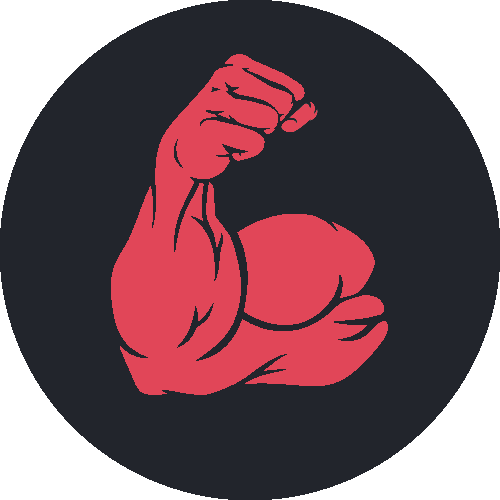
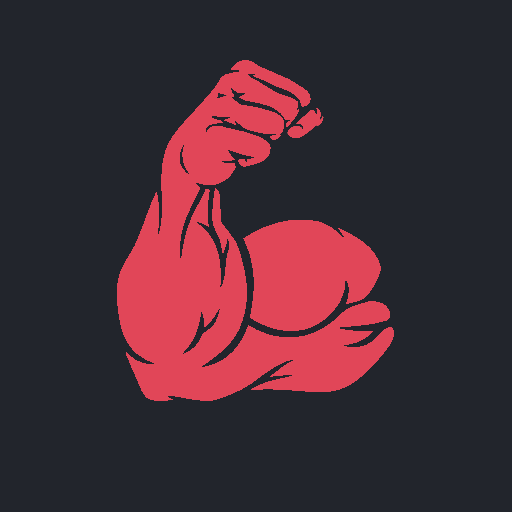
added maskable image

diff --git a/src/components/AppBarLayout/AppBarLayout.tsx b/src/components/AppBarLayout/AppBarLayout.tsx
@@ -1,16 +1,22 @@
+import React, { useEffect } from 'react';
+
 import { NavLink } from 'react-router-dom';
-import React from 'react';
 import classNames from 'classnames';
 import styles from './AppBarLayout.module.scss';
 
 type Props = {
     header?: React.ReactNode;
+    pageTitle: string;
 };
 
 export default function AppBarLayout({
     children,
     header,
+    pageTitle,
 }: React.PropsWithChildren<Props>) {
+    useEffect(() => {
+        document.title = `${pageTitle} | ISOMETRIC`;
+    }, [pageTitle]);
     return (
         <div className={styles.root}>
             {header}
@@ -28,8 +34,8 @@ export default function AppBarLayout({
                         iconClass='fa-dumbbell'
                     />
                     <AppBarButton
-                        href='/workouts'
-                        text='Workouts'
+                        href='/history'
+                        text='History'
                         iconClass='fa-list-check'
                     />
                 </div>

diff --git a/src/pages/exercises/index.tsx b/src/pages/exercises/index.tsx
@@ -1,17 +1,12 @@
-import { useEffect, useMemo } from 'react';
-
 import AppBarWithAppHeaderLayout from '../../components/AppBarWithAppHeaderLayout/AppBarWithAppHeaderLayout';
 import { IExercise } from '@dgoudie/isometric-types';
 import { Link } from 'react-router-dom';
 import MuscleGroupTag from '../../components/MuscleGroupTag/MuscleGroupTag';
 import styles from './index.module.scss';
 import { useFetchFromApi } from '../../utils/fetch-from-api';
+import { useMemo } from 'react';
 
 const Exercises = () => {
-    useEffect(() => {
-        document.title = `Exercises | ISOMETRIC`;
-    }, []);
-
     const [response] = useFetchFromApi<IExercise[]>(
         `/api/exercises`,
         null,
@@ -28,7 +23,7 @@ const Exercises = () => {
     );
 
     return (
-        <AppBarWithAppHeaderLayout>
+        <AppBarWithAppHeaderLayout pageTitle='Exercises'>
             <div className={styles.root}>
                 <div className={styles.items}>{items}</div>
             </div>

diff --git a/src/pages/history/index.tsx b/src/pages/history/index.tsx
@@ -1,15 +1,11 @@
-import React, { useEffect } from 'react';
-
 import AppBarWithAppHeaderLayout from '../../components/AppBarWithAppHeaderLayout/AppBarWithAppHeaderLayout';
+import React from 'react';
 
 type Props = {};
 
-const Workouts: React.FC<Props> = () => {
-    useEffect(() => {
-        document.title = `Workouts | ISOMETRIC`;
-    }, []);
+const History: React.FC<Props> = () => {
     return (
-        <AppBarWithAppHeaderLayout>
+        <AppBarWithAppHeaderLayout pageTitle='History'>
             Lorem ipsum dolor sit amet, consectetur adipiscing elit, sed do
             eiusmod tempor incididunt ut labore et dolore magna aliqua.
             Scelerisque viverra mauris in aliquam sem. Odio euismod lacinia at
@@ -71,4 +67,4 @@ const Workouts: React.FC<Props> = () => {
     );
 };
 
-export default Workouts;
+export default History;

diff --git a/src/App.tsx b/src/App.tsx
@@ -5,16 +5,16 @@ import React, { FC } from 'react';
 
 import Exercise from './pages/exercise';
 import Exercises from './pages/exercises';
+import History from './pages/history';
 import Home from './pages/home';
 import Settings from './pages/settings';
-import Workouts from './pages/workouts';
 
 const App: FC = () => (
     <Routes>
         <Route path='home' element={<Home />} />
         <Route path='exercises' element={<Exercises />} />
         <Route path='exercises/:exerciseName' element={<Exercise />} />
-        <Route path='workouts' element={<Workouts />} />
+        <Route path='history' element={<History />} />
         <Route path='settings' element={<Settings />} />
         <Route path='*' element={<Navigate replace to='/home' />} />
     </Routes>

diff --git a/src/components/MuscleGroupTag/MuscleGroupTag.tsx b/src/components/MuscleGroupTag/MuscleGroupTag.tsx
@@ -9,7 +9,16 @@ import styles from './MuscleGroupTag.module.scss';
 import { useMemo } from 'react';
 
 const colorScale = chroma
-    .scale(['#e14658', 'skyblue', 'orange'])
+    .scale([
+        '#DE3163',
+        '#FF7F50',
+        '#FFBF00',
+        '#DFFF00',
+        '#9FE2BF',
+        '#40E0D0',
+        '#6495ED',
+        '#CCCCFF',
+    ])
     .mode('lch')
     .colors(ExerciseMuscleGroups.length);
 
@@ -24,7 +33,7 @@ export default function MuscleGroupTag({ muscleGroup, className }: Props) {
         [muscleGroup]
     );
     let color = 'black';
-    if (contrast(backgroundColor, color) < 9) {
+    if (contrast(backgroundColor, color) < 7) {
         color = 'white';
     }
     return (

diff --git a/src/components/AppBarWithAppHeaderLayout/AppBarWithAppHeaderLayout.tsx b/src/components/AppBarWithAppHeaderLayout/AppBarWithAppHeaderLayout.tsx
@@ -2,13 +2,17 @@ import AppBarLayout from '../AppBarLayout/AppBarLayout';
 import { NavLink } from 'react-router-dom';
 import styles from './AppBarWithAppHeaderLayout.module.scss';
 
-type Props = {};
+type Props = {
+    pageTitle: string;
+};
 
 export default function AppBarWithAppHeaderLayout({
     children,
+    pageTitle,
 }: React.PropsWithChildren<Props>) {
     return (
         <AppBarLayout
+            pageTitle={pageTitle}
             header={
                 <header className={styles.topBar}>
                     <div className={styles.topBarTitle}>ISOMETRIC</div>

diff --git a/src/pages/settings/index.tsx b/src/pages/settings/index.tsx
@@ -1,11 +1,11 @@
-import React, { useEffect } from 'react';
-
 import AppBarWithAppHeaderLayout from '../../components/AppBarWithAppHeaderLayout/AppBarWithAppHeaderLayout';
+import React from 'react';
 
 const Settings: React.FC = () => {
-    useEffect(() => {
-        document.title = `Settings | ISOMETRIC`;
-    }, []);
-    return <AppBarWithAppHeaderLayout>Some Settings</AppBarWithAppHeaderLayout>;
+    return (
+        <AppBarWithAppHeaderLayout pageTitle='Settings'>
+            Some Settings
+        </AppBarWithAppHeaderLayout>
+    );
 };
 export default Settings;

diff --git a/src/pages/home/index.tsx b/src/pages/home/index.tsx
@@ -1,14 +1,14 @@
-import React, { useEffect } from 'react';
-
 import AppBarWithAppHeaderLayout from '../../components/AppBarWithAppHeaderLayout/AppBarWithAppHeaderLayout';
+import React from 'react';
 
 type Props = {};
 
 const Home: React.FC<Props> = () => {
-    useEffect(() => {
-        document.title = `Home | ISOMETRIC`;
-    }, []);
-    return <AppBarWithAppHeaderLayout>hello</AppBarWithAppHeaderLayout>;
+    return (
+        <AppBarWithAppHeaderLayout pageTitle='Home'>
+            hello
+        </AppBarWithAppHeaderLayout>
+    );
 };
 
 export default Home;

diff --git a/src/pages/exercise/index.tsx b/src/pages/exercise/index.tsx
@@ -14,7 +14,7 @@ const ExerciseDetail = () => {
     );
 
     return (
-        <AppBarWithAppHeaderLayout>
+        <AppBarWithAppHeaderLayout pageTitle={exerciseName!}>
             <pre style={{ whiteSpace: 'pre-wrap' }}>
                 {JSON.stringify(response?.data, null, 2)}
             </pre>
